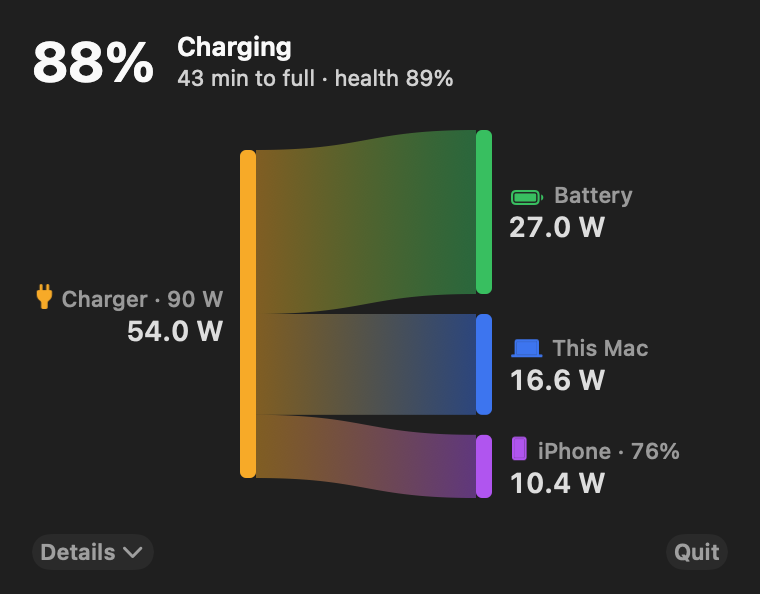
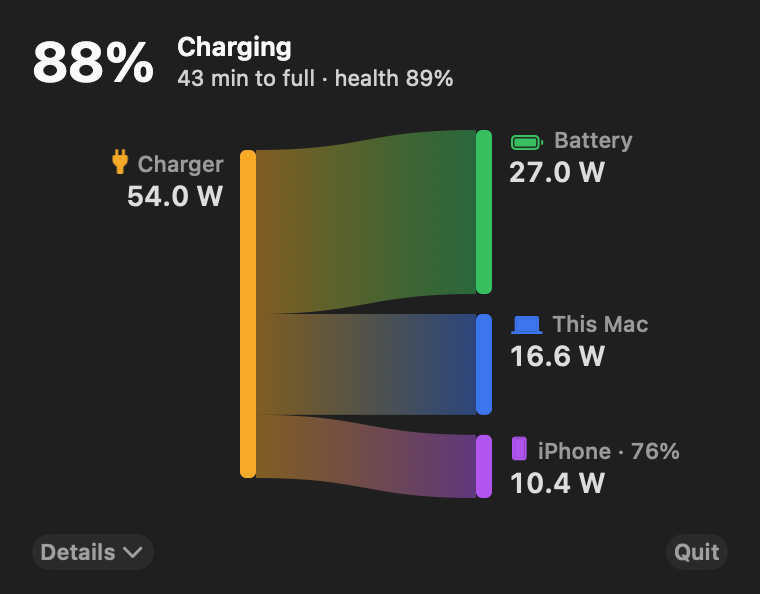
One-click updates, plain battery glyph, top-aligned flow labels
- Check GitHub for a newer release on launch and daily (ephemeral session, torn down after)
- Update button downloads, verifies SHA-256 + signature, swaps the app in place, relaunches
- CI publishes PowerFlow.zip.sha256 next to the zip
- Menu bar uses the plain battery level glyph so it matches the bolt and device icons
- Flow labels align to the top of their node; charger label no longer wraps
- Cache SF Symbol images used while drawing

diff --git a/PowerFlow.swift b/PowerFlow.swift
@@ -2,6 +2,7 @@
 // AppKit + IOKit only: no SwiftUI/Charts, nothing drawn while the panel is closed,
 // menu bar redrawn only when its text changes, USB rescanned only on plug/unplug.
 import AppKit
+import CryptoKit
 import IOKit
 
 // MARK: - Data
@@ -147,17 +148,22 @@ enum C {
     static let other   = NSColor.systemGray
 }
 
-func batterySymbol(_ p: Int, charging: Bool = false) -> String {
-    if charging && p >= 95 { return "battery.100percent.bolt" }
+/// Plain level glyph only: the menu bar's leading bolt already says "charging".
+func batterySymbol(_ p: Int) -> String {
     return ["battery.0percent", "battery.25percent", "battery.50percent", "battery.75percent", "battery.100percent"][min(4, max(0, (p + 12) / 25))]
 }
 
+private var symbolCache: [String: NSTextAttachment] = [:]
+/// SF Symbol as a text attachment; cached, since rebuilding symbol images on every redraw dominated draw time.
 func symbol(_ name: String, _ color: NSColor? = nil, size: CGFloat = 12) -> NSTextAttachment {
+    let key = "\(name)|\(color?.description ?? "-")|\(size)"
+    if let a = symbolCache[key] { return a }
     var cfg = NSImage.SymbolConfiguration(pointSize: size, weight: .medium)
     if let color { cfg = cfg.applying(.init(paletteColors: [color])) }
     let a = NSTextAttachment()
     a.image = NSImage(systemSymbolName: name, accessibilityDescription: nil)?.withSymbolConfiguration(cfg)
     if let s = a.image?.size { a.bounds = CGRect(x: 0, y: -2, width: s.width, height: s.height) }
+    symbolCache[key] = a
     return a
 }
 
@@ -171,7 +177,7 @@ struct Node { let title: String, symbol: String, watts: Double, color: NSColor }
 
 func nodes(_ r: Reading) -> ([Node], [Node]) {
     var src: [Node] = [], snk: [Node] = []
-    if r.plugged && r.inW > 0.05 { src.append(Node(title: String(format: "Charger · %.0f W", r.ratedW), symbol: "powerplug.portrait.fill", watts: r.inW, color: C.adapter)) }
+    if r.plugged && r.inW > 0.05 { src.append(Node(title: "Charger", symbol: "powerplug.portrait.fill", watts: r.inW, color: C.adapter)) }
     if r.batteryW < -0.05 { src.append(Node(title: "Battery", symbol: batterySymbol(r.percent), watts: -r.batteryW, color: C.battery)) }
     if r.batteryW > 0.05 { snk.append(Node(title: "Battery", symbol: batterySymbol(r.percent), watts: r.batteryW, color: C.battery)) }
     snk.append(Node(title: "This Mac", symbol: "laptopcomputer", watts: r.macW, color: C.mac))
@@ -235,7 +241,10 @@ final class FlowView: NSView {
             if left { let p = NSMutableParagraphStyle(); p.alignment = .right; s.addAttribute(.paragraphStyle, value: p, range: NSRange(location: 0, length: s.length)) }
             let w: CGFloat = left ? r.minX - 8 : bounds.width - r.maxX - 8
             let size = s.boundingRect(with: NSSize(width: w, height: 60), options: [.usesLineFragmentOrigin]).size
-            s.draw(with: CGRect(x: left ? r.minX - 8 - w : r.maxX + 8, y: r.midY - size.height / 2, width: w, height: size.height), options: [.usesLineFragmentOrigin])
+            // Top-align with the node (centre it only when the node is shorter than the label),
+            // so tall nodes don't leave an empty band above their label.
+            let y = r.height > size.height ? r.minY - 2 : r.midY - size.height / 2
+            s.draw(with: CGRect(x: left ? r.minX - 8 - w : r.maxX + 8, y: y, width: w, height: size.height), options: [.usesLineFragmentOrigin])
         }
         for (n, r) in zip(src, sr) { label(n, r, left: true) }
         for (n, r) in zip(snk, kr) { label(n, r, left: false) }
@@ -296,7 +305,7 @@ final class HistoryView: NSView {
         let secs = Double(max(n - 1, 0)) * Self.interval
         let span = secs < 60 ? "Last \(Int(secs)) s" : "Last \(Int((secs / 60).rounded())) min"
         text(span, 10, .regular, .secondaryLabelColor).draw(at: NSPoint(x: plot.minX, y: plot.maxY + 4))
-        let scale = text(String(format: "scale %.0f–%.0f W", lo, hi), 10, .regular, .tertiaryLabelColor)
+        let scale = text(String(format: "scale %.0f–%.0f W", lo, hi), 10, .regular, .secondaryLabelColor)
         scale.draw(at: NSPoint(x: plot.maxX - scale.size().width, y: plot.maxY + 4))
     }
 
@@ -313,6 +322,80 @@ final class HistoryView: NSView {
     }
 }
 
+// MARK: - Updates
+
+/// One small HTTPS request to GitHub on launch and then daily; nothing else touches the network.
+/// Turn off with: defaults write io.github.powerflow autoCheck -bool false
+final class Updater {
+    struct Release { let version: String, zip: URL, sha: URL, page: URL }
+    static let feed = URL(string: ProcessInfo.processInfo.environment["POWERFLOW_UPDATE_FEED"]
+                          ?? "https://api.github.com/repos/lvcidnu11/PowerFlow/releases/latest")!
+    let current = Bundle.main.object(forInfoDictionaryKey: "CFBundleShortVersionString") as? String ?? "0"
+    private(set) var available: Release?
+    var onChange: (() -> Void)?
+
+    func check() {
+        guard UserDefaults.standard.object(forKey: "autoCheck") as? Bool ?? true else { return }
+        var req = URLRequest(url: Self.feed, timeoutInterval: 20)
+        req.setValue("PowerFlow-updater", forHTTPHeaderField: "User-Agent")
+        let session = URLSession(configuration: .ephemeral)
+        defer { session.finishTasksAndInvalidate() }
+        session.dataTask(with: req) { [weak self] data, _, _ in
+            guard let self, let data, let j = try? JSONSerialization.jsonObject(with: data) as? [String: Any],
+                  let tag = j["tag_name"] as? String, let assets = j["assets"] as? [[String: Any]] else { return }
+            let v = tag.hasPrefix("v") ? String(tag.dropFirst()) : tag
+            func asset(_ n: String) -> URL? {
+                (assets.first { $0["name"] as? String == n }?["browser_download_url"] as? String).flatMap(URL.init(string:))
+            }
+            guard v.compare(self.current, options: .numeric) == .orderedDescending,
+                  let zip = asset("PowerFlow.zip"), let sha = asset("PowerFlow.zip.sha256") else { return }
+            let page = (j["html_url"] as? String).flatMap(URL.init(string:)) ?? zip
+            DispatchQueue.main.async { self.available = Release(version: v, zip: zip, sha: sha, page: page); self.onChange?() }
+        }.resume()
+    }
+
+    /// Download → verify SHA-256 → unzip → check bundle id, version and signature → swap in place → relaunch.
+    /// If the app can't be replaced where it is (e.g. read-only location), opens the release page instead.
+    func install(status: @escaping (String) -> Void) {
+        guard let rel = available else { return }
+        status("Downloading…")
+        URLSession.shared.downloadTask(with: rel.zip) { file, _, _ in
+            func fail(_ why: String) { DispatchQueue.main.async { status(why); NSWorkspace.shared.open(rel.page) } }
+            guard let file else { return fail("Download failed") }
+            let fm = FileManager.default
+            let dir = fm.temporaryDirectory.appendingPathComponent("PowerFlow-update-\(UUID().uuidString)")
+            do {
+                try fm.createDirectory(at: dir, withIntermediateDirectories: true)
+                let zip = dir.appendingPathComponent("PowerFlow.zip")
+                try fm.moveItem(at: file, to: zip)
+                let expected = try String(contentsOf: rel.sha, encoding: .utf8).prefix(64).lowercased()
+                let actual = SHA256.hash(data: try Data(contentsOf: zip)).map { String(format: "%02x", $0) }.joined()
+                guard expected == actual else { return fail("Checksum mismatch") }
+                guard Self.run("/usr/bin/ditto", "-x", "-k", zip.path, dir.path) else { return fail("Unzip failed") }
+                let new = dir.appendingPathComponent("PowerFlow.app")
+                guard let b = Bundle(url: new), b.bundleIdentifier == Bundle.main.bundleIdentifier,
+                      b.object(forInfoDictionaryKey: "CFBundleShortVersionString") as? String == rel.version,
+                      Self.run("/usr/bin/codesign", "--verify", "--deep", new.path) else { return fail("Unexpected download") }
+                _ = try fm.replaceItemAt(Bundle.main.bundleURL, withItemAt: new)
+                DispatchQueue.main.async {
+                    status("Restarting…")
+                    let p = Process()
+                    p.executableURL = URL(fileURLWithPath: "/bin/sh")
+                    p.arguments = ["-c", "sleep 1; /usr/bin/open \"$0\"", Bundle.main.bundlePath]
+                    try? p.run()
+                    if NSApp.isRunning { NSApp.terminate(nil) } else { exit(0) }
+                }
+            } catch { fail("Couldn't replace the app") }
+        }.resume()
+    }
+
+    private static func run(_ tool: String, _ args: String...) -> Bool {
+        let p = Process(); p.executableURL = URL(fileURLWithPath: tool); p.arguments = args
+        guard (try? p.run()) != nil else { return false }
+        p.waitUntilExit(); return p.terminationStatus == 0
+    }
+}
+
 // MARK: - Panel
 
 final class Panel: NSViewController {
@@ -320,6 +403,7 @@ final class Panel: NSViewController {
     private let percent = NSTextField(labelWithString: ""), status = NSTextField(labelWithString: "")
     private let sub = NSTextField(labelWithString: ""), info = NSTextField(labelWithString: "")
     private let toggle = NSButton(title: "Details", target: nil, action: nil)
+    let update = NSButton(title: "", target: nil, action: nil)
     var onResize: (() -> Void)?
 
     override func loadView() {
@@ -332,7 +416,9 @@ final class Panel: NSViewController {
         toggle.bezelStyle = .inline; toggle.target = self; toggle.action = #selector(toggleDetails)
         toggle.image = NSImage(systemSymbolName: "chevron.down", accessibilityDescription: nil); toggle.imagePosition = .imageTrailing
         let quit = NSButton(title: "Quit", target: NSApp, action: #selector(NSApplication.terminate(_:))); quit.bezelStyle = .inline
-        let footer = NSStackView(views: [toggle, NSView(), quit])
+        update.bezelStyle = .inline; update.isHidden = true
+        update.image = NSImage(systemSymbolName: "arrow.down.circle", accessibilityDescription: nil); update.imagePosition = .imageLeading
+        let footer = NSStackView(views: [toggle, NSView(), update, quit])
 
         history.isHidden = true; info.isHidden = true
         let stack = NSStackView(views: [header, flow, history, info, footer])
@@ -361,7 +447,7 @@ final class Panel: NSViewController {
         info.stringValue = d.joined(separator: "\n")
     }
 
-    @objc private func toggleDetails() {
+    @objc func toggleDetails() {
         history.isHidden.toggle(); info.isHidden = history.isHidden
         toggle.image = NSImage(systemSymbolName: history.isHidden ? "chevron.down" : "chevron.up", accessibilityDescription: nil)
         if !history.isHidden { history.needsDisplay = true }
@@ -376,6 +462,7 @@ final class App: NSObject, NSApplicationDelegate, NSPopoverDelegate {
     private let item = NSStatusBar.system.statusItem(withLength: NSStatusItem.variableLength)
     private let popover = NSPopover(), panel = Panel()
     private var last: Reading?, lastTitle = ""
+    private let updater = Updater()
 
     func applicationDidFinishLaunching(_ n: Notification) {
         popover.contentViewController = panel
@@ -393,6 +480,28 @@ final class App: NSObject, NSApplicationDelegate, NSPopoverDelegate {
         let t = Timer(timeInterval: 3, repeats: true) { [weak self] _ in self?.tick() }
         t.tolerance = 1.5
         RunLoop.main.add(t, forMode: .common)
+
+        updater.onChange = { [weak self] in self?.showUpdate() }
+        panel.update.target = self; panel.update.action = #selector(installUpdate)
+        // Check shortly after launch, then daily; the large tolerance lets macOS batch it with other work.
+        DispatchQueue.main.asyncAfter(deadline: .now() + 10) { [weak self] in self?.updater.check() }
+        let daily = Timer(timeInterval: 86_400, repeats: true) { [weak self] _ in self?.updater.check() }
+        daily.tolerance = 3_600
+        RunLoop.main.add(daily, forMode: .common)
+        if CommandLine.arguments.contains("--open") { DispatchQueue.main.async { self.togglePopover() } }
+    }
+
+    private func showUpdate() {
+        guard let v = updater.available?.version else { return }
+        panel.update.title = "Update to v\(v)"
+        panel.update.isHidden = false
+        // A small dot on the menu bar icon says an update is waiting.
+        lastTitle = ""; if let r = last { updateTitle(r) }
+    }
+
+    @objc private func installUpdate() {
+        panel.update.isEnabled = false
+        updater.install { [weak self] msg in self?.panel.update.title = msg }
     }
 
     private func tick() {
@@ -407,12 +516,13 @@ final class App: NSObject, NSApplicationDelegate, NSPopoverDelegate {
     private func updateTitle(_ r: Reading) {
         var parts: [(String, String)] = []
         if r.plugged { parts.append(("bolt.fill", String(format: "%.0fW", r.inW))) }
-        parts.append((batterySymbol(r.percent, charging: r.batteryW > 0.3), String(format: r.plugged ? "%+.0f" : "%.0fW", r.batteryW)))
+        parts.append((batterySymbol(r.percent), String(format: r.plugged ? "%+.0f" : "%.0fW", r.batteryW)))
         for d in r.devices { parts.append((d.symbol, String(format: "%.0f", d.watts))) }
         let key = parts.map { $0.0 + $0.1 }.joined()
         guard key != lastTitle else { return }  // nothing visible changed
         lastTitle = key
         let s = NSMutableAttributedString()
+        if updater.available != nil { s.append(text("• ", 12, .bold, .controlAccentColor)) }
         for (i, (sym, val)) in parts.enumerated() {
             if i > 0 { s.append(text("  ", 12)) }
             s.append(NSAttributedString(attachment: symbol(sym)))
@@ -458,7 +568,7 @@ if let i = CommandLine.arguments.firstIndex(of: "--snapshot"), i + 1 < CommandLi
         p.show(r, health: reader.health, cycles: reader.cycles)
         if CommandLine.arguments.contains("--details") {
             CommandLine.arguments.contains("--demo") ? p.history.seedDemo(r) : p.history.push(r)
-            p.perform(Selector(("toggleDetails")))
+            p.toggleDetails()
         }
         let v = p.view; v.frame.size = v.fittingSize; v.layoutSubtreeIfNeeded()
         let bg = NSView(frame: v.bounds); bg.wantsLayer = true; bg.appearance = v.appearance
@@ -469,6 +579,13 @@ if let i = CommandLine.arguments.firstIndex(of: "--snapshot"), i + 1 < CommandLi
         try? rep.representation(using: .png, properties: [:])?.write(to: URL(fileURLWithPath: "\(dir)/panel-\(name).png"))
     }
     exit(0)
+}
+if CommandLine.arguments.contains("--update") {  // check and install from the terminal
+    let u = Updater()
+    u.onChange = { print("updating \(u.current) → \(u.available!.version)"); u.install { print($0) } }
+    u.check()
+    DispatchQueue.main.asyncAfter(deadline: .now() + 30) { print("no update (current \(u.current))"); exit(0) }
+    RunLoop.main.run()
 }
 let app = NSApplication.shared
 let delegate = App()

diff --git a/README.md b/README.md
@@ -31,9 +31,14 @@ devices charging from its USB-C ports** (e.g. an iPhone).
   and its own battery %
 - Battery health (current vs. design capacity) and cycle count
 - Light and dark app icon that follows the system appearance (macOS 26+)
-- Tiny footprint: about 0.1% CPU and 15 MB of memory; nothing is drawn while the panel is closed,
-  and the menu bar only redraws when its numbers change
-- No root, no kernel extensions, no network — reads the IORegistry only
+- One-click updates: when a new release is out, an **Update** button appears in the panel (and a
+  dot in the menu bar). It downloads the release, checks its SHA-256 and code signature, swaps
+  the app in place and relaunches
+- Tiny footprint: under 0.1% CPU and about 16 MB of memory; nothing is drawn while the panel is
+  closed, and the menu bar only redraws when its numbers change
+- No root, no kernel extensions. Network use is limited to one small request to GitHub on launch
+  and once a day to check for updates — turn it off with
+  `defaults write io.github.powerflow autoCheck -bool false`
 
 ## Install
 
@@ -79,7 +84,8 @@ cable the device shows as "Apple device" / "USB-C device" with a generic connect
 Ports are matched by USB controller (one per USB-C port on Apple Silicon).
 
 **Debugging.** `PowerFlow.app/Contents/MacOS/PowerFlow --dump` prints one reading and exits —
-please include its output in bug reports. `--snapshot <dir>` renders the panel to PNGs.
+please include its output in bug reports. `--update` checks for and installs an update from the
+terminal; `--snapshot <dir>` renders the panel to PNGs.
 
 **Does charging a phone from the Mac wear the Mac's battery?** While the Mac is plugged in,
 USB-C devices are fed from the system power rail, which the adapter supplies — the battery is
